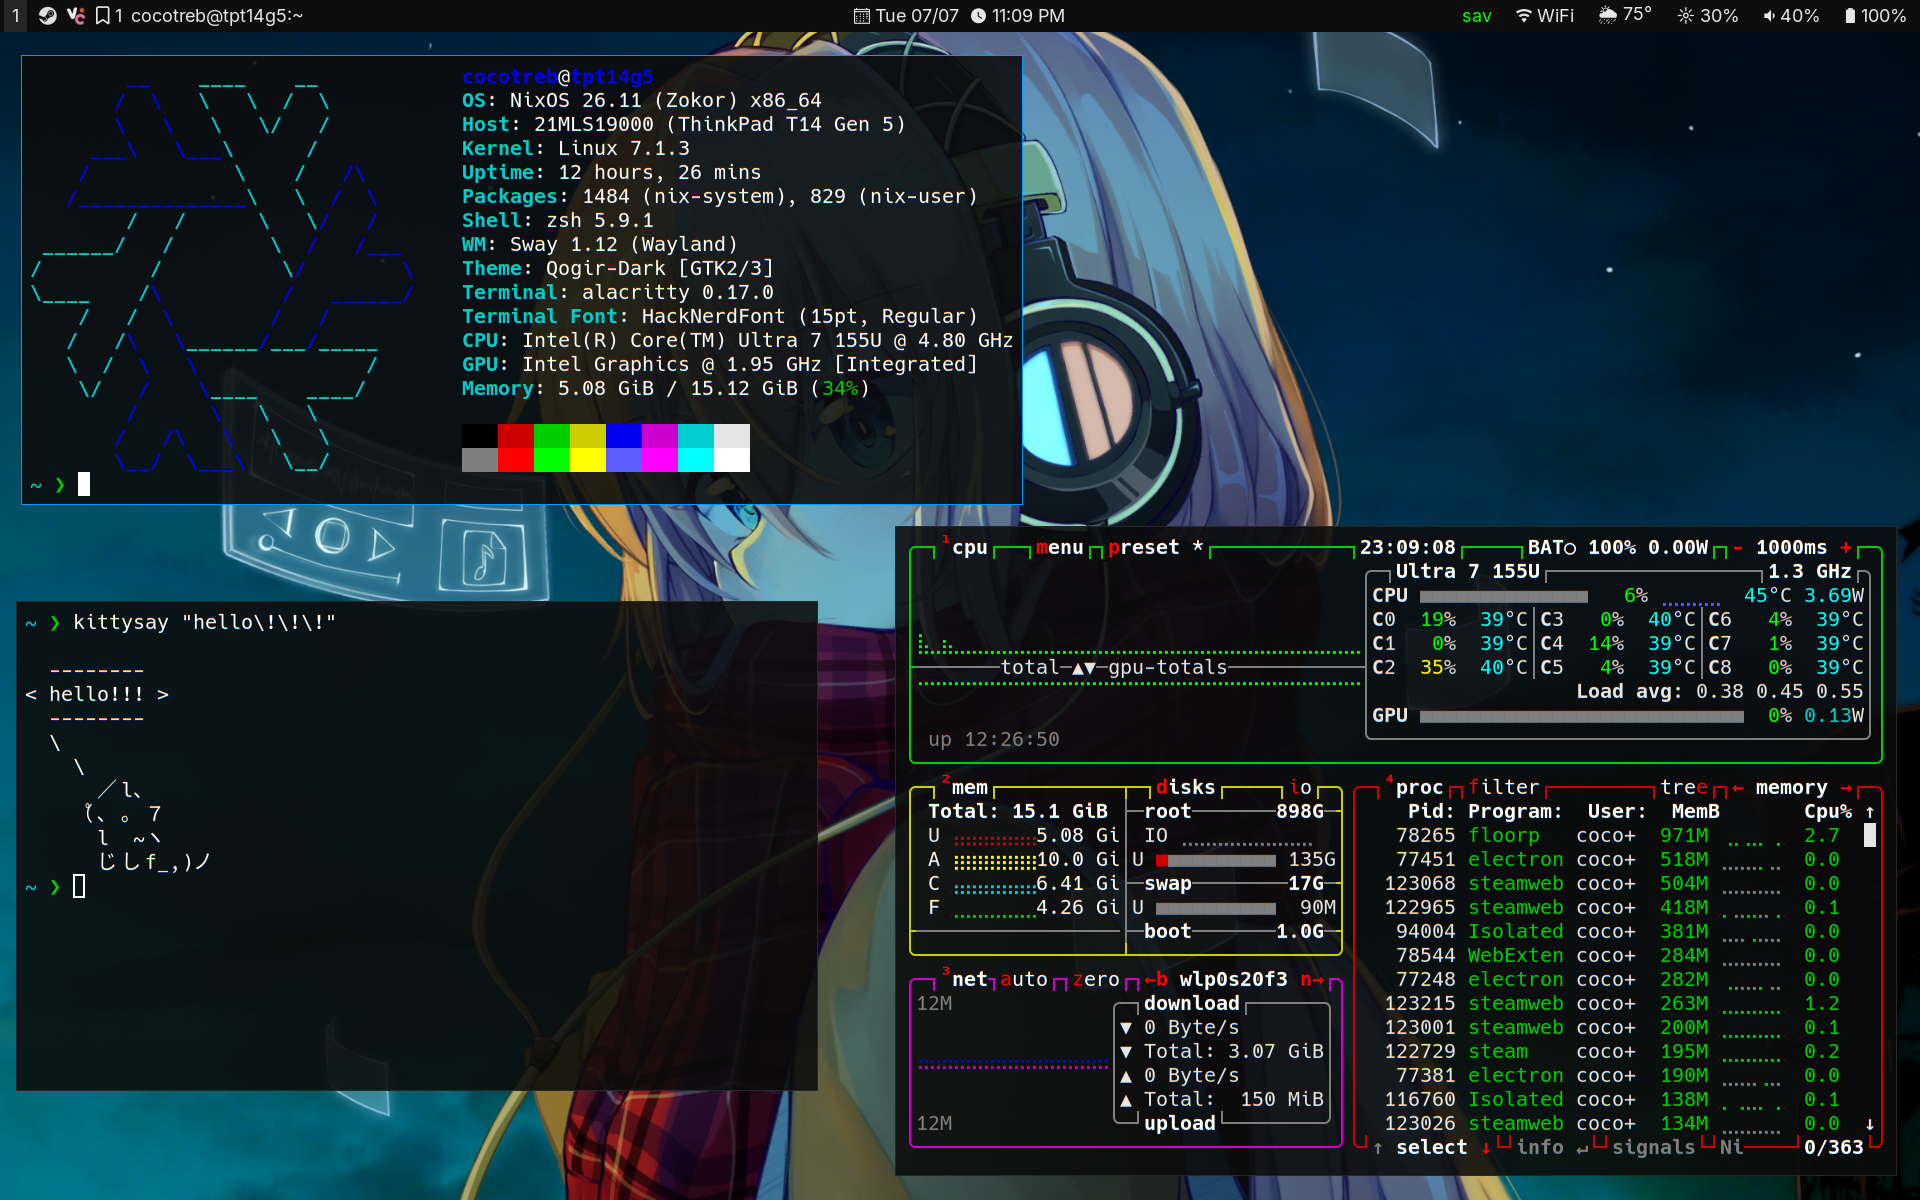
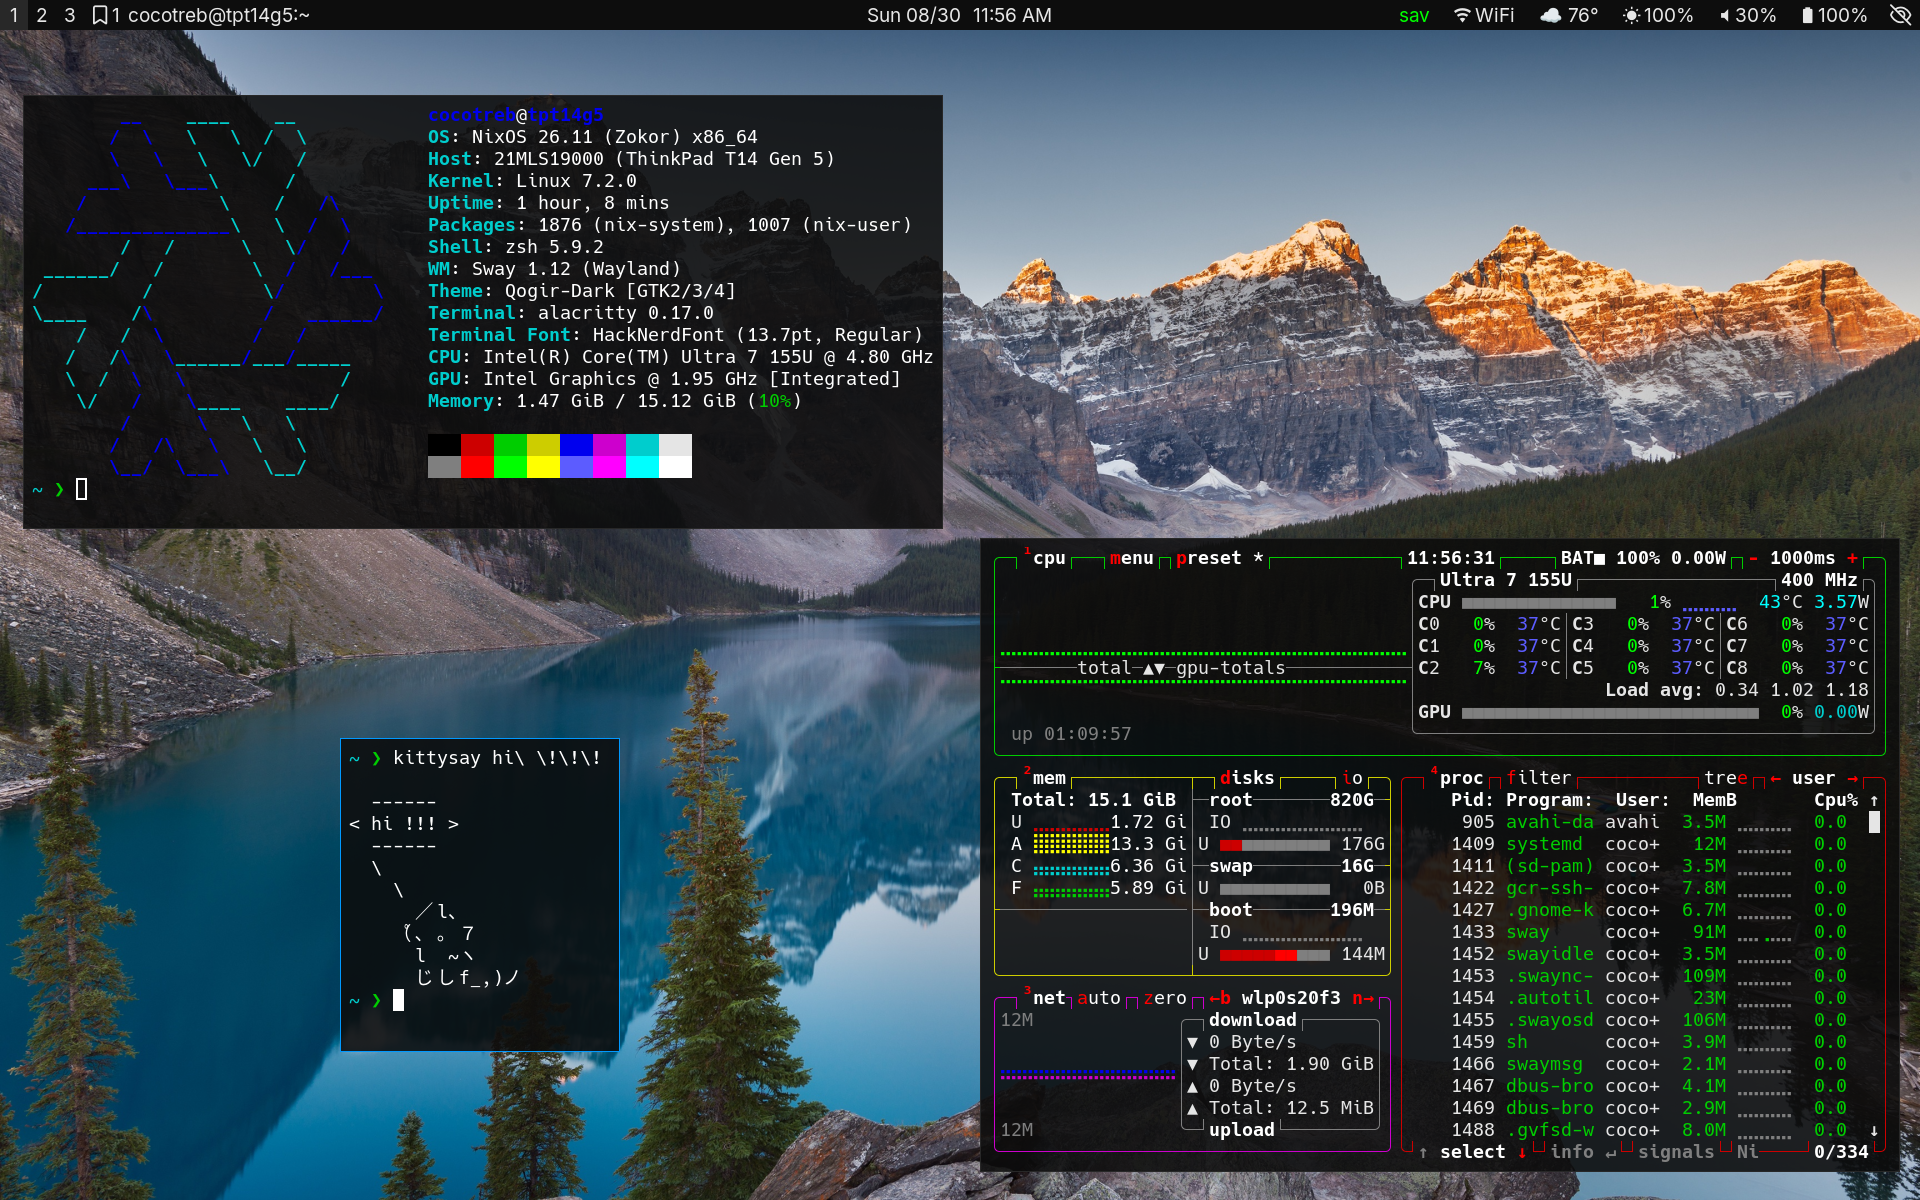
updated README, updated gallery image

diff --git a/README.md b/README.md
@@ -13,8 +13,13 @@ If you want to use these, remember to edit the wallpaper paths in wpaperd, swayl
 ![Image of my desktop](./image.png)
 
 ## See also
-[Wallpaper link](https://wallpaper-a-day.com/2016/06/24/) (remember to click on "1440p version")
+<!-- [Wallpaper link](https://wallpaper-a-day.com/2016/06/24/) (remember to click on "1440p version") -->
+<!-- [Swaylock wallpaper link](https://wallpaper-a-day.com/2025/12/11/22411/#respond) -->
 
-[Swaylock wallpaper link](https://wallpaper-a-day.com/2025/12/11/22411/#respond)
+(The actual wallpaper I use is subject to change!)
+
+[Wallpaper link](https://4kwallpapers.com/nature/moraine-lake-landscape-sunrise-mountains-54.html)
+
+[Swaylock wallpaper link](https://4kwallpapers.com/nature/moonrise-rolling-25877.html)
 
 [tdelamater1's dotfiles](https://github.com/tdelamater1/dots/tree/master) (thx for the weather waybar module)
